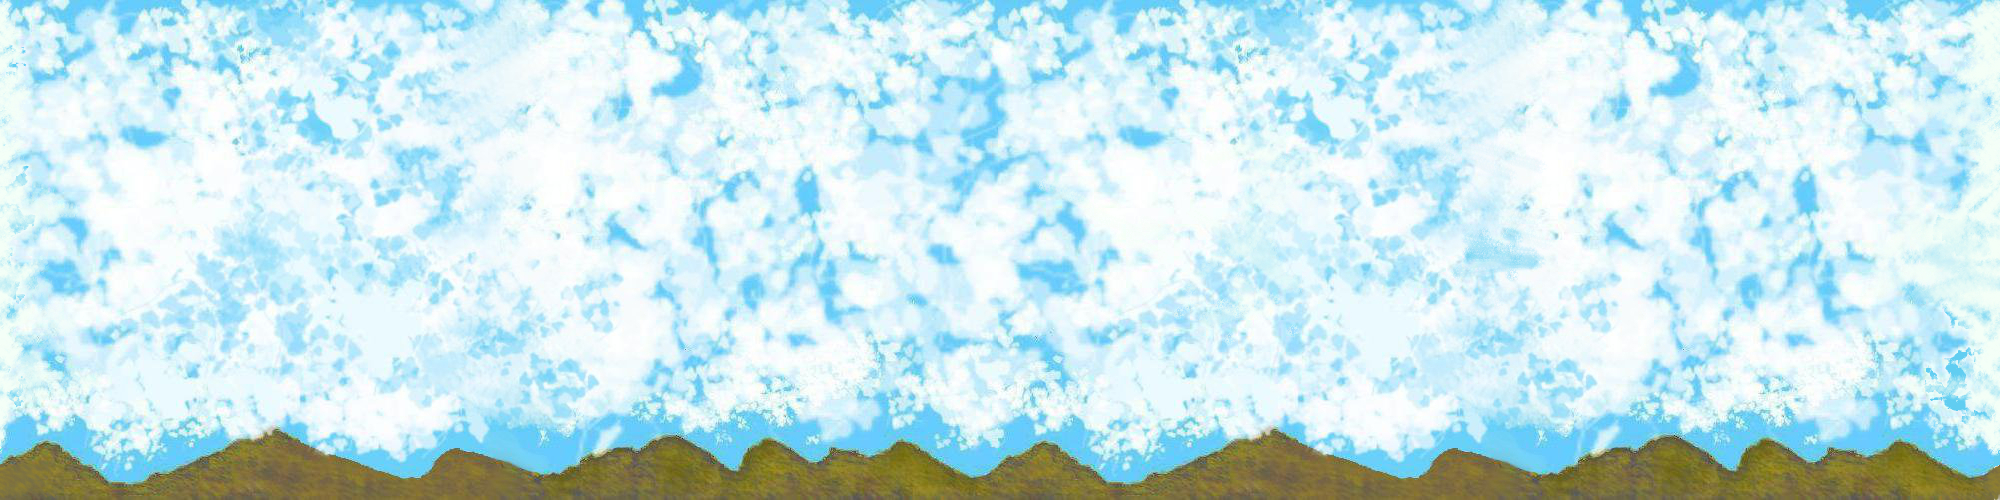
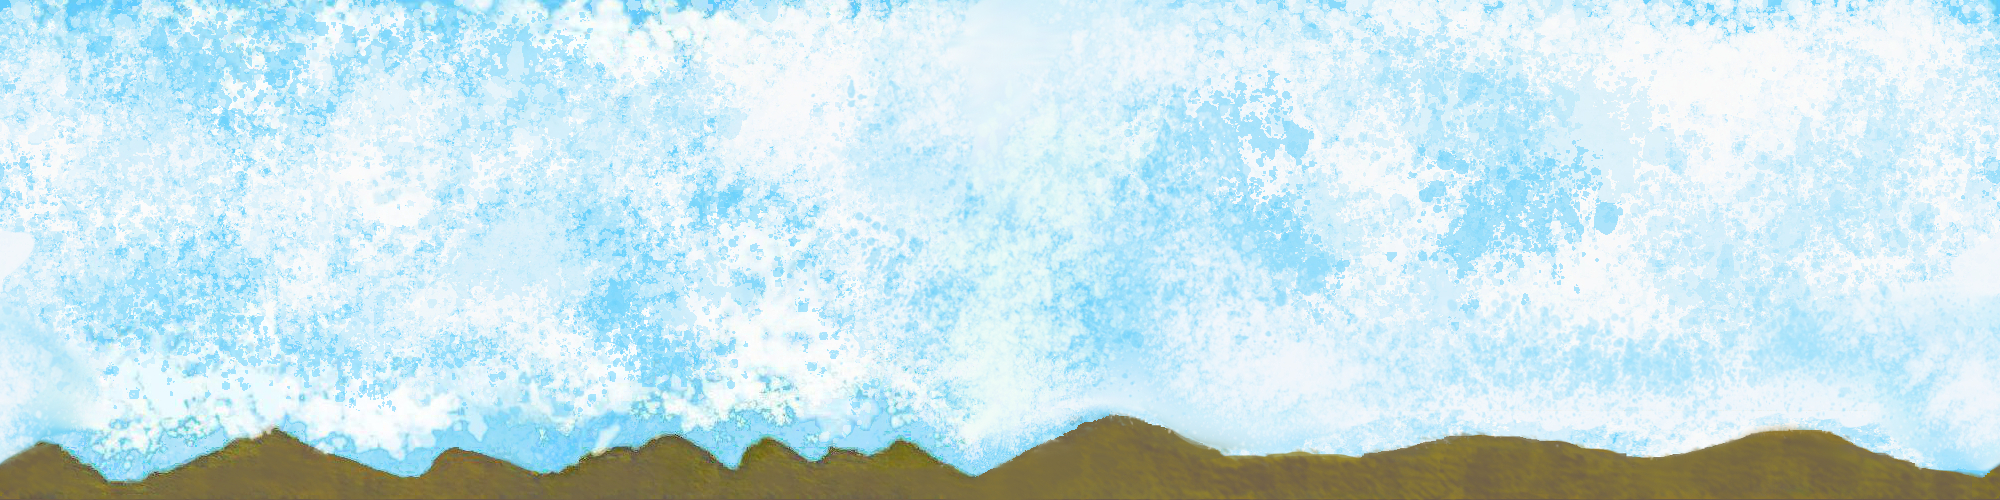
f

diff --git a/Driving/src/com/main/Road.java b/Driving/src/com/main/Road.java
@@ -448,6 +448,7 @@ public class Road extends Shader{
 	}
 	
 	double[] pRot=new double[3];
+	private double rearAngle;
 
 	private void rototranslate(Polygon3D polRotate, double[][] rot,double dx, double dy,double dz) {
 
@@ -910,7 +911,7 @@ public class Road extends Shader{
 
     //used for read view
 	public void rotateSky(double rotationAngle){
-		//APOSX+=(int) (-rotationAngle/(Math.PI*2)*CarFrame.background.getWidth());
+		rearAngle=rotationAngle;
 	}
 	
 	public void drawSky() {
@@ -936,7 +937,7 @@ public class Road extends Shader{
 		//System.out.println(APOSX);
 		for(int i=0;i<WIDTH;i++){
 			
-			double teta=i*eta-viewDirection;
+			double teta=i*eta-viewDirection-rearAngle;
 
 			if(teta<0)
 				teta=teta+2*Math.PI;

diff --git a/Driving/src/com/main/CarFrame.java b/Driving/src/com/main/CarFrame.java
@@ -42,7 +42,7 @@ public class CarFrame extends JFrame implements KeyListener,ActionListener {
 
 	
     int counter=0;
-	String VERSION="CarDriving 7.0.4";
+	String VERSION="CarDriving 7.0.5";
 	
 	JPanel center=null;
 	private Graphics2D graphics2D;
@@ -603,7 +603,7 @@ public class CarFrame extends JFrame implements KeyListener,ActionListener {
 		else if(code==KeyEvent.VK_Z){
 			
 			if(Road.VIEW_TYPE==Road.REAR_VIEW)
-				road.rotateSky(Math.PI);
+				road.rotateSky(0);
 			Road.VIEW_TYPE=Road.FRONT_VIEW;
 			
 		}
